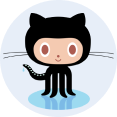
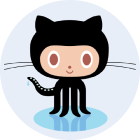
User info & user bio

diff --git a/index.html b/index.html
@@ -32,9 +32,11 @@
         <div class="avatar-container">
           <img src="./assets/avatar.png" alt="Avatar" class="user-avatar">
         </div>
-        <span class="user-name">The Octocat</span>
-        <span class="user-login">@octocat</span>
-        <span class="user-created">Joined 25 Jan 2011</span>
+        <div class="info-container">
+          <span class="user-name">The Octocat</span>
+          <span class="user-login">@octocat</span> 
+          <span class="user-created">Joined 25 Jan 2011</span>
+        </div>
       </article>
 
       <article class="user-bio">
@@ -62,8 +64,7 @@
         <li><i class="icon-twitter"></i>Not Available</li>
         <li><i class="icon-company"></i>@github</li>
       </ul>
-    </section>
-    
+    </section> 
   </div>
 
 </body>

diff --git a/css/style.css b/css/style.css
@@ -128,5 +128,53 @@ body {
 }
 
 .user {
+  padding: 2rem 1.5rem 3rem 1.5rem;
+  border-radius: 1rem;
   background-color: var(--content-bg);
 }
+
+.user-info {
+  display: flex;
+  gap: 1.25rem;
+}
+
+.avatar-container {
+  min-width: 4.375rem;
+  max-width: 7.375rem;
+}
+
+.user-avatar {
+  width: 100%;
+  vertical-align: middle;
+}
+
+.info-container {
+  min-width: 11.8125rem;
+  display: flex;
+  flex-direction: column;
+  justify-content: center;
+}
+
+.user-name {
+  color: var(--user);
+  font-weight: bold;
+}
+
+.user-login {
+  margin-bottom: 0.375rem;
+  color: var(--secondary-color);
+  font-size: 0.75rem;
+}
+
+.user-created {
+  font-size: 0.75rem;
+}
+
+.user-bio {
+  margin-top: 33px;
+  margin-bottom: 23px;
+  font-size: 0.75rem;
+  line-height: 1.575rem;
+}
+
+
